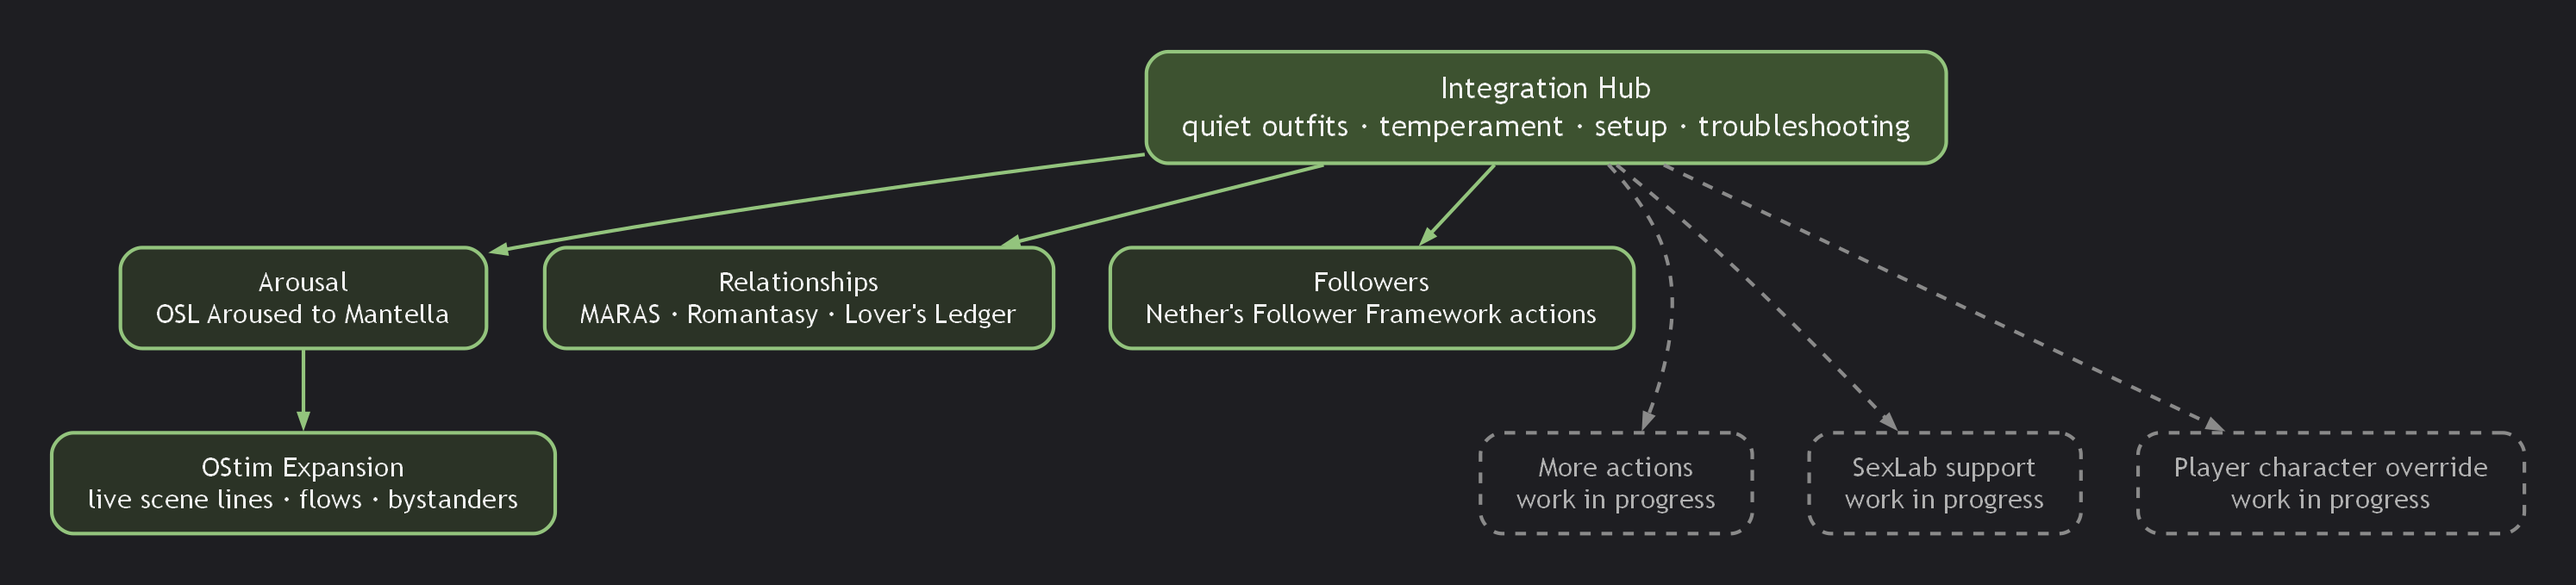
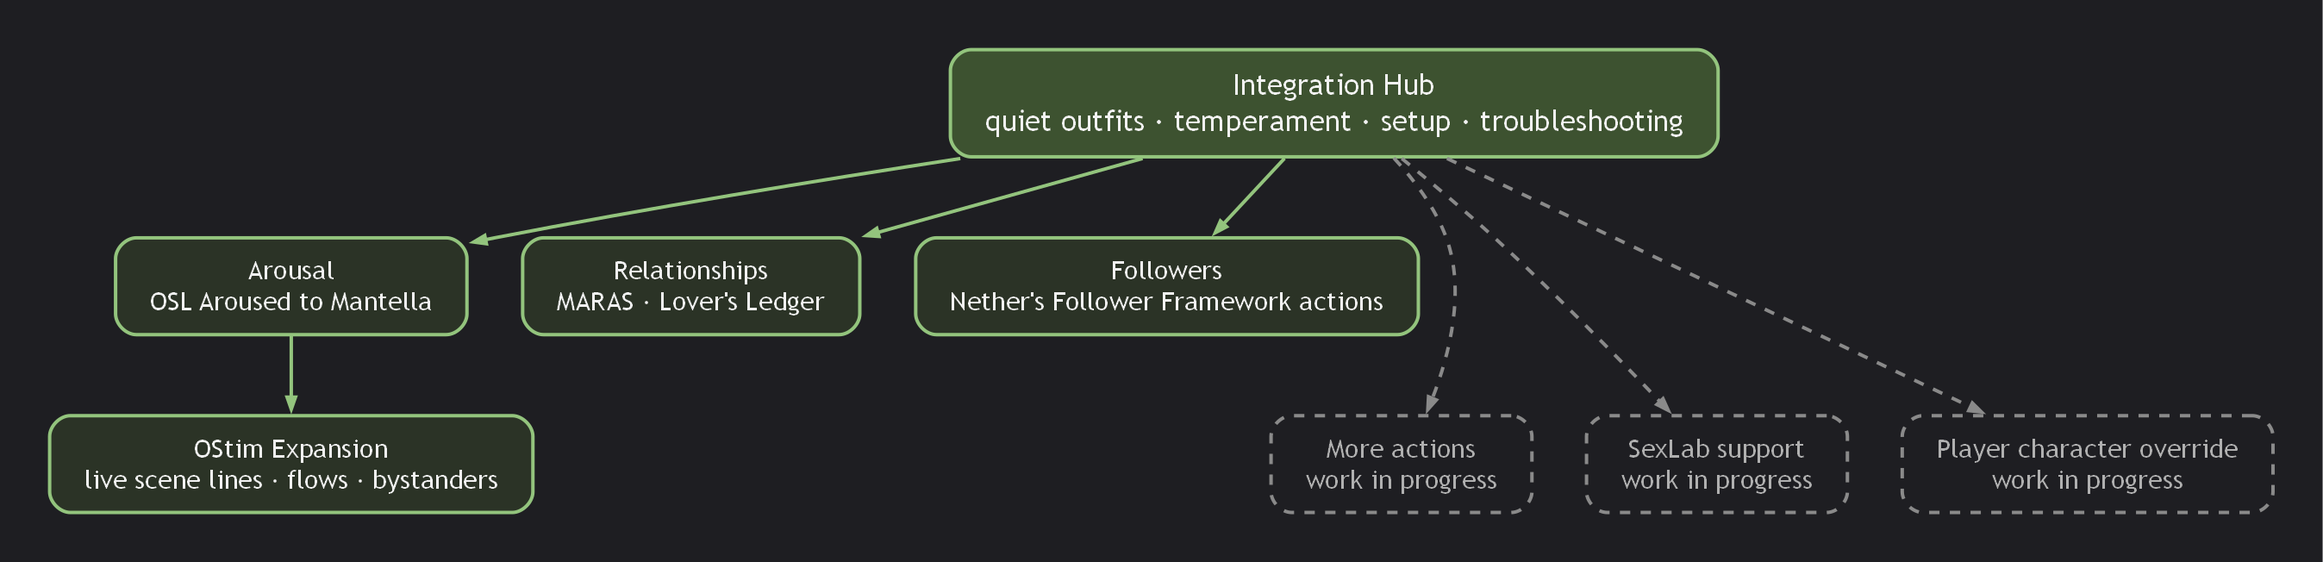
Romantasy removed, Module status MCM page, new Nexus images

diff --git a/tools/nexus_images.py b/tools/nexus_images.py
@@ -1,5 +1,5 @@
-"""Table data for the Nexus pages (written as native [table]s by nexus_pages.py) and the chart images.
-The OStim flow chart is Graphviz. Output: <project>/nexus/images/flow.png
+"""Table data for the Nexus pages (written as native [table]s by nexus_pages.py) and the gallery images:
+every table as a PNG (<project>/nexus/images/<name>.png, headless Chrome) and the OStim flow chart (Graphviz, flow.png).
 
 usage: py -3 nexus_images.py
 """
@@ -12,24 +12,26 @@ PROJECTS = {
     'ostim': 'Mantella-Adult-Expansion-OStim',
     'arousal': 'Mantella-OSL-Aroused-Bridge',
     'relationships': 'Mantella-Relationship-Bridge',
+    'followers': 'Mantella-Living-World-Followers',
 }
-# Dark surface that sits well on Nexus; neutral ink, one accent for the header rule.
-BG, INK, MUTED, RULE, ACCENT = '#1d1e21', '#e8e6e3', '#a9a6a1', '#34363b', '#d98c3a'
+# Dark surface that sits well on Nexus; neutral ink, the pages' green accent for the header rule.
+BG, INK, MUTED, RULE, ACCENT = '#1d1e21', '#e8e6e3', '#a9a6a1', '#34363b', '#93c47d'
 WIDTH = 900
 
 TABLES = {
     'hub': {
         'modules': ('Modules', ['Module', 'Adds', 'Needs'], [
-            ['Integration Hub', 'Shared services, settings, temperament', 'Mantella (always installed)'],
             ['OStim Expansion', 'Scene flows, scene talk, bystanders, favourite positions', 'OStim Standalone'],
             ['Arousal', 'Arousal, appetite, satisfied and overwhelmed', 'OSL Aroused'],
-            ['Relationships', 'Marriage, romance bond, shared history', 'MARAS, Romantasy or Lover\'s Ledger'],
+            ['Relationships', 'Marriage, shared history', 'MARAS or Lover\'s Ledger'],
+            ['Followers', 'Join, leave, wait, follow, passive, wear this', 'Nether\'s Follower Framework'],
         ]),
         'features': ('What the hub does', ['Feature', 'Effect'], [
             ['Quiet outfits', 'No equip / unequip spam in conversations during scenes and after loading screens'],
-            ['Event sender', 'Modules add in-game lines and let NPCs speak on their own, with cooldowns'],
             ['Temperament', 'Reserved, bold or forward per NPC; set with a hotkey'],
-            ['Settings', 'One menu for the hub and every module'],
+            ['Module status', 'MCM page with a check for each installed module and supported mod'],
+            ['Troubleshooting', 'Writes a report for bug reports; optional debug log'],
+            ['Settings', 'One MCM page for the hub and its shared settings'],
         ]),
     },
     'ostim': {
@@ -66,9 +68,17 @@ TABLES = {
     'relationships': {
         'parts': ('What Mantella learns', ['Mod', 'Mantella learns'], [
             ['MARAS', 'Married, engaged, candidate or divorced; your spouses when asked'],
-            ['Romantasy', 'Bond tier and points; talking earns points'],
             ['Lover\'s Ledger', 'Your history together, her favourite acts, her other lovers'],
             ['After a scene', 'She opens a conversation and speaks first'],
+        ]),
+    },
+    'followers': {
+        'actions': ('Actions', ['Action', 'What happens'], [
+            ['JoinParty / LeaveParty', 'The NPC joins or leaves your NFF party'],
+            ['WaitHere / FollowMe', 'Only that follower waits or follows again'],
+            ['EveryoneWait / EveryoneFollow', 'The whole party'],
+            ['StayPassive / FightFreely', 'Stays out of fights, or attacks enemies and helps allies'],
+            ['WearThis', 'Opens trade; what you hand over becomes their NFF outfit for where you are'],
         ]),
     },
 }
@@ -118,7 +128,15 @@ def shoot(page, out, height):
 
 
 def main():
-    # Tables are native Nexus [table]s (nexus_pages.py); only charts are images.
+    # The pages use native [table]s (nexus_pages.py); these images are for the galleries.
+    for key, tables in TABLES.items():
+        for name, (title, head, rows) in tables.items():
+            out = os.path.join(CODING, PROJECTS[key], 'nexus', 'images', name + '.png')
+            os.makedirs(os.path.dirname(out), exist_ok=True)
+            shoot(table_html(title, head, rows), out, 900)
+            # Cut the unused height, then put back even padding.
+            subprocess.run(['magick', out, '-trim', '+repage', '-bordercolor', BG, '-border', '36', out], check=True)
+            print(out)
     flow_out = os.path.join(CODING, PROJECTS['ostim'], 'nexus', 'images', 'flow.png')
     dot = FLOW % {'bg': BG, 'ink': INK, 'muted': MUTED, 'accent': ACCENT}
     subprocess.run(['dot', '-Tpng', '-Gdpi=144', '-o', flow_out], input=dot.encode(), check=True)

diff --git a/tools/nexus_pages.py b/tools/nexus_pages.py
@@ -17,7 +17,7 @@ REPOS = {'hub': 'Mantella-Living-World-Hub', 'ostim': 'Mantella-Living-World-OSt
 NAMES = {'hub': 'Integration Hub', 'ostim': 'OStim Expansion', 'arousal': 'Arousal', 'relationships': 'Relationships', 'followers': 'Followers'}
 ACCENT = '#93c47d'
 GREY = '#888888'
-FLOW_IMG = 'https://staticdelivery.nexusmods.com/mods/1704/images/196850/196850-1793005727-1382186894.png'
+FLOW_IMG = 'https://staticdelivery.nexusmods.com/mods/1704/images/196850/196850-1793033586-163909772.png'
 CHART_IMG = os.environ.get('MLW_CHART_IMG', '')  # the hub breakdown chart once uploaded to the hub's gallery
 
 
@@ -88,12 +88,13 @@ def pages():
                     [('Modules', table(['Module', 'Adds', 'Needs'], [
                         [module('ostim'), 'Scene flows, scene talk, bystanders, favourite positions', 'OStim Standalone'],
                         [module('arousal'), 'Arousal, appetite, satisfied and overwhelmed', 'OSL Aroused'],
-                        [module('relationships'), 'Marriage, romance bond, shared history', "MARAS, Romantasy or Lover's Ledger"],
+                        [module('relationships'), 'Marriage, shared history', "MARAS or Lover's Ledger"],
                         [module('followers'), 'Join, leave, wait, follow, passive, wear this', "Nether's Follower Framework"],
                     ]) + (('\n' + spoiler(CHART_IMG)) if CHART_IMG else '')),
                      ('What the hub does', table(['Feature', 'Effect'], [
                          ['Quiet outfits', 'No equip / unequip spam in conversations during scenes, outfit changes and after loading screens'],
                          ['Temperament', 'Reserved, bold or forward per NPC; set with a hotkey'],
+                         ['Module status', 'MCM page with a check for each installed module and supported mod'],
                          ['Troubleshooting', 'Writes a report for bug reports; optional debug log'],
                          ['Settings', 'One MCM page for the hub and its shared settings'],
                      ]))],
@@ -126,11 +127,11 @@ def pages():
         'relationships': page('relationships',
                               'Mantella NPCs who know where they stand with you.',
                               [('What Mantella learns', tbl('relationships', 'parts'))],
-                              [HUB, MANTELLA + ' 0.14', link('M.A.R.A.S', 159033) + ' (optional)', link('Romantasy', 186060) + ' (optional)',
+                              [HUB, MANTELLA + ' 0.14', link('M.A.R.A.S', 159033) + ' (optional)',
                                link("Lover's Ledger", 158983) + ' (optional)'],
                               ['Install the hub, then this module.'],
                               ['Each part runs only when its mod is installed.'],
-                              ["[b]TangyTweaks[/b] for M.A.R.A.S and Lover's Ledger", '[b]ColdSun[/b] for Romantasy', SKSE]),
+                              ["[b]TangyTweaks[/b] for M.A.R.A.S and Lover's Ledger", SKSE]),
         'followers': page('followers',
                           'Mantella actions for ' + link("Nether's Follower Framework", 55653) + ': talk an NPC into your party, '
                           'tell them to wait, follow, stay out of fights, or hand them clothes to wear.',

diff --git a/tools/make_records.py b/tools/make_records.py
@@ -54,6 +54,29 @@ def toggle(text, name, help_):
     return {'text': text, 'type': 'toggle', 'help': help_, 'valueOptions': g(name)}
 
 
+def status(text, prop, help_):
+    return {'text': text, 'type': 'toggle', 'help': help_, 'groupCondition': 1,
+            'valueOptions': {'sourceType': 'PropertyValueBool', 'propertyName': prop}}
+
+
+# Module status page: (label, MLW_MCM property, help). MLW_MCM.CheckModules fills the properties.
+MODULES = [
+    ('Integration Hub', 'HasHub', 'The shared base. Every module needs it.'),
+    ('OStim Expansion', 'HasOStimExpansion', 'Scene flows, scene talk and bystanders. Needs OStim Standalone.'),
+    ('Arousal', 'HasArousal', 'Arousal, appetite, satisfied and overwhelmed. Needs OSL Aroused.'),
+    ('Relationships', 'HasRelationships', "Marriage and shared history. Needs M.A.R.A.S or Lover's Ledger."),
+    ('Followers', 'HasFollowers', "Join, leave, wait, follow, passive, wear this. Needs Nether's Follower Framework."),
+]
+MODS = [
+    ('Mantella', 'HasMantella', 'Required by everything.'),
+    ('OStim Standalone', 'HasOStim', 'Used by OStim Expansion.'),
+    ('OSL Aroused', 'HasOSL', 'Used by Arousal.'),
+    ('M.A.R.A.S', 'HasMARAS', 'Used by Relationships and Arousal.'),
+    ("Lover's Ledger", 'HasLedger', 'Used by Relationships.'),
+    ("Nether's Follower Framework", 'HasNFF', 'Used by Followers.'),
+]
+
+
 MCM = {
     'modName': E[:-4], 'displayName': 'Mantella Living World', 'minMcmVersion': 9, 'cursorFillMode': 'topToBottom',
     'pages': [{
@@ -73,6 +96,15 @@ MCM = {
             {'text': 'Hotkey', 'type': 'keymap', 'help': 'Aim at an NPC: set her temperament. Aim at nobody: run setup.', 'valueOptions': g('MLW_Hotkey')},
             toggle('Setup reminder', 'MLW_SetupReminder', 'Remind at game launch while setup has not been run.'),
         ],
+    }, {
+        'pageDisplayName': 'Module status',
+        'content': [
+            # Read-only: the checks are filled in when the menu opens; group 1 is never on, so they cannot be clicked.
+            {'type': 'hiddenToggle', 'groupControl': 1, 'valueOptions': {'sourceType': 'PropertyValueBool', 'propertyName': 'Never'}},
+            {'text': 'Mantella Living World', 'type': 'header'},
+        ] + [status(t, p, h) for t, p, h in MODULES] + [
+            {'text': 'Works with', 'type': 'header'},
+        ] + [status(t, p, h) for t, p, h in MODS],
     }, {
         'pageDisplayName': 'Troubleshooting',
         'content': [

diff --git a/tools/build.py b/tools/build.py
@@ -26,7 +26,6 @@ DEPS = {
     'ostim': '[NoDelete] OStim Standalone/Scripts/Source',
     'osl': '[NoDelete] OSL Aroused/Scripts/Source',
     'maras': '[NoDelete] M.A.R.A.S - Marry Anyone Rule All Skyrim/Scripts/Source',
-    'romantasy': 'Romantasy - An Elegant Romance System/Source/Scripts',
     'mantella': '[NoDelete] Mantella - Bring NPCs to Life with AI/Scripts/Source',
     'jcontainers': 'JContainers SE/scripts/source',
     'po3': "powerofthree's Papyrus Extender/Source/scripts",
@@ -41,10 +40,10 @@ PROJECTS = {
                   deps=['skse', 'papyrusutil', 'skymessage', 'ostim', 'osl'], data=['SKSE'], prebuilt=[],
                   tools=['tools/flowgen.py', 'tools/Build Flows.cmd']),
     'arousal': dict(dir='Mantella-OSL-Aroused-Bridge', name='Mantella Living World - Arousal',
-                    deps=['skse', 'papyrusutil', 'osl', 'maras', 'romantasy', 'mantella', 'jcontainers', 'po3', 'skyui'],
+                    deps=['skse', 'papyrusutil', 'osl', 'maras', 'mantella', 'jcontainers', 'po3', 'skyui'],
                     data=['SKSE'], prebuilt=[]),
     'relationships': dict(dir='Mantella-Relationship-Bridge', name='Mantella Living World - Relationships',
-                          deps=['skse', 'papyrusutil', 'maras', 'romantasy', 'mantella', 'jcontainers', 'po3', 'skyui'],
+                          deps=['skse', 'papyrusutil', 'maras', 'mantella', 'jcontainers', 'po3', 'skyui'],
                           data=['SKSE'], prebuilt=['MRB_Ledger']),  # Lover's Ledger ships no sources; its .pex is kept
     'followers': dict(dir='Mantella-Living-World-Followers', name='Mantella Living World - Followers',
                       imports=[os.path.join(HUB_DIR, 'Source', 'Scripts'), os.path.join(HUB_DIR, 'build', 'stubs')],
